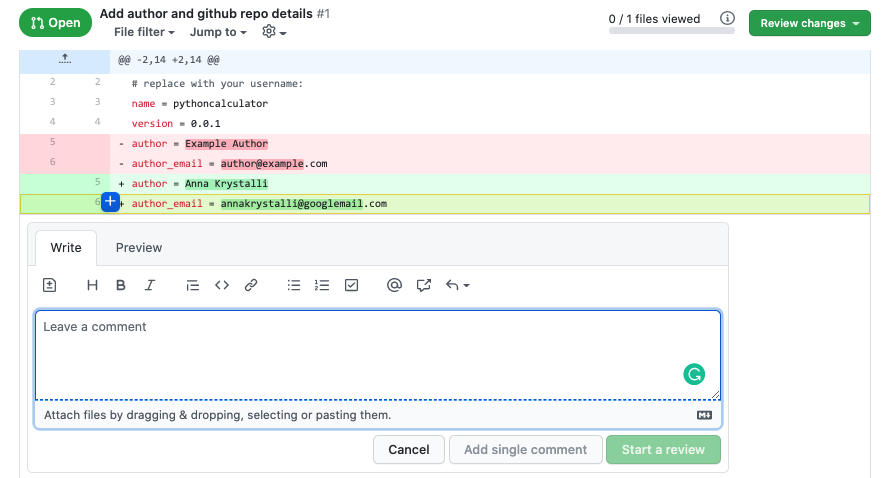
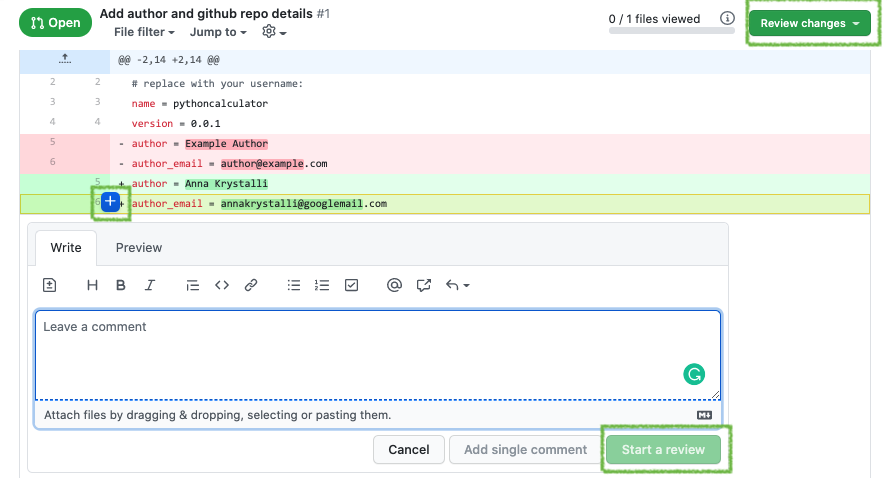
Final updates

Changed region(s): [[0.8219, 0.0, 1.0, 0.1172], [0.6697, 0.8787, 0.8523, 0.9958], [0.0913, 0.3808, 0.1522, 0.4686]]

diff --git a/content/04-collaborative_github_advanced/05-review-2nd-pull-request.md b/content/04-collaborative_github_advanced/05-review-2nd-pull-request.md
@@ -1,5 +1,5 @@
 +++
-title = "Review 2nd Pull Request handling merge conflicts"
+title = "Review 2nd Pull Request: handling merge conflicts"
 date =  2021-05-21T16:16:40+03:00
 weight = 5
 +++
@@ -8,28 +8,84 @@ weight = 5
 ## <i class="fas fa-user-circle"></i> Review 2nd Pull Request
 
 
-Next I'll move onto merging the second pull request. Just like the previous one, I **first inspect the checks and code contributed** and **request modifications** to any errors I've noted **until all checks are passing**. In this example, I'm merging my team mate **robadob**'s contribution who worked on the **
+Next I'll move onto merging the second pull request. Just like the previous one, I **first inspect the checks and code contributed** and **request modifications** to any errors I've noted **until all checks are passing**. 
 
-However, once those have been dealt with, I'm still left with **another blocker to merging the pull request, a merge conflict!**
+### Example: Merge in the `divide` Pull Request.
+
+In this example, I'm merging my team mate **robadob**'s contribution who worked on **adding a division function** ([**issue #4** _Add subtraction function_](https://github.com/annakrystalli/python-calculator-demo/issues/4) via [**pull request #7**](https://github.com/annakrystalli/python-calculator-demo/pull/7).
+
+Rob actually spotted and corrected the sneaky error in  the instructions so the PR passed all checks straight away. However, I'm now left with **another blocker to merging the pull request, a merge conflict!**
 
 > Merge conflicts happen when you **merge branches that have competing commits**, and **Git needs your help to decide which changes to incorporate in the final merge**.
 
-In the case of our second PR, the **conflict arises from the fact that line 2 of the `pythoncalculator/__init__.py` file has been edited**. However, **the first PR**, which has now been merged into `main`, **also committed an edit to that exact line**, .  
+In the case of our second PR, the **conflict arises from the fact that line 2 of the `pythoncalculator/__init__.py` file has been edited**. However, **the first PR**, which has now been merged into `main`, **also committed an edit to that exact line** which **Rob's branch doesn't know about** (the merge of the first PR happened after Rob made his branch off the `main`). This has resulted in a merge conflict that git doesn't know how to deal with and needs our help!
 
+{{% notice info %}}
 Find out more about [Addressing merge conflicts
 ](https://docs.github.com/en/github/collaborating-with-issues-and-pull-requests/addressing-merge-conflicts) and [Resolving a merge conflict on GitHub
-]()
+](https://docs.github.com/en/free-pro-team@latest/github/collaborating-with-issues-and-pull-requests/resolving-a-merge-conflict-on-github).
+
+{{% /notice %}}
+
+#### <i class="fas fa-user-circle"></i> Resolve conflict
+
+**Because the conflict is a simple one, we are able to resolve it on GitHub**. For more complex conflicts you may need to pull the branch down and resolve locally.
+
+Click on {{% button href="" %}} **Resolve conflicts**{{% /button %}} to initiate the process.
 
 {{< figure src="/images/ag-pr-2-review-merge-confilct.png" >}}
 
+This **opens a text editor panel** showing you **any files that have conflicts** (in our case `pythoncalculator/__init__.py`) and highlights the **lines of conflicting code** as well as **their origin**.
+
+
+
 {{< figure src="/images/ag-pr-2-review-merge-confilct-resolve-init.png" >}}
+
+In this text editor, we can **edit the file to tell git what we want to do with the conflicting code**. We want to **keep both `import` statements** so in this case, all we need to do is **delete the lines containing source indicator notation**.
+
+Our **resolved file should similar to the one below** when we're done (they may vary depending on which issues were contributed in each of the first two pull requests).
 
 {{< figure src="/images/ag-pr-2-review-merge-confilct-resolve-cmpl.png" >}}
 
+#### <i class="fas fa-user-circle"></i> Commit resolved conflict
+
+When we're happy with our file we click on {{% button href="" %}} **Mark as resolved**{{% /button %}}
+
 {{< figure src="/images/ag-pr-2-review-merge-confilct-resolve-commit.png" >}}
+
+Finally, to **commit our changes to the 2nd PR branch** (in this case the `divide` branch), we the click {{% button href="" %}} **Commit merge**{{% /button %}} and follow through to completion. 
+
+As noted, **the merge commit will be associated with the person who resolved the conflict** (in this case the project owner).
+
+#### <i class="fas fa-user-circle"></i> Review and merge Pull Request
+
+Now all that's left is to **submit an approving review** and **merge**.
+
+First we **submit the approving pull request review** which is now added PR conversation next to <i class="fas fa-check-circle" style="color:#2AA745"></i>.
+
+Note a couple more things:
+
+- Note the special keyword used in Rob's PR description.
+- Note that the owner's commit resolving the merge conflict is also now present in the conversation. 🎉
 
 {{< figure src="/images/ag-pr-2-review-merge-pre.png" >}}
 
+**Once the approving review has been submitted and all checks are passing, the PR is ready to be merged!** 
+
+Click {{% button href="" %}} **Merge pull request**{{% /button %}} and follow through to completion. Go ahead and also **delete the PR branch** (in this case `divide`) to keep the repo tidy.
+
+
 {{< figure src="/images/ag-pr-2-review-merge.png" >}}
 
+#### <i class="fas fa-user-circle"></i> Close issue
+
+Note that the **special keyword `Closes`** in combination with the issue number (**`#4`**) **automatically closed issue number 4**.
+
+If that wasn't the case for your PR, **go ahead and close the issue manually.**
+
 {{< figure src="/images/ag-pr-2-review-merge-issue-closed.png" >}}
+
+
+#### <i class="fas fa-user-circle"></i> Review remaining Pull Requests
+
+Go ahead and follow the same processes (reviewing and asking for corrections where required and resolving merge conflicts) for any remaining pull requests.

diff --git a/content/04-collaborative_github_advanced/06-synch-local-repo.md b/content/04-collaborative_github_advanced/06-synch-local-repo.md
@@ -1,0 +1,45 @@
++++
+title = "Synch local repository"
+date =  2021-05-22T13:27:33+03:00
+weight = 6
++++
+
+
+
+Now, let's take a minute and go back to GitKraken to inspect what the repo looks like from the ground.
+
+Right at the top of the commit graph you should see <i class="fas fa-cloud"></i> **origin `main` ahead of all other branches** and now containing **all the commits made by the entire team**.
+
+You should **see the  <i class="fas fa-laptop"></i> local branch you used to make your contributions** in below, and likely still checked out (indicated by the <i class="fas fa-check-square" style="color:#166de0; background-color:whites; padding:2px"></i> on the branch label).
+
+Finally, right at the bottom, you should **see your <i class="fas fa-laptop"></i> local `main` branch which is behind all other branches**. 
+
+So let's go ahead and **synch our <i class="fas fa-laptop"></i> local `main` with the  <i class="fas fa-cloud"></i> origin `main`**.
+
+
+{{< figure src="/images/ag-synch-local-view.png" >}}
+
+## <i class="fas fa-user-circle"> </i><i class="fas fa-users"></i> Checkout `main` branch
+
+First we need to **checkout the <i class="fas fa-laptop"></i> local `main` branch**. You can either double click on the branch label or check it out on the left panel by <i class="fas fa-check-square" style="color:#7CFF7E; background-color:black; padding:2px"></i> next to **main**. 
+
+{{< figure src="/images/ag-synch-local-checkout-main.png" >}}
+
+## <i class="fas fa-user-circle"></i> <i class="fas fa-users"></i> Pull remote changes
+
+Then, click on {{% button href="" %}} **Pull** <br> <i class="fas fa-download"></i>{{% /button %}} to pull the remote changes.
+
+This should **synch our <i class="fas fa-laptop"></i> local `main` with the  <i class="fas fa-cloud"></i> origin `main`**.
+
+Finally, to also keep your local repo tidy and clean of any stale branches, let's also delete the local branch we worked in to contribute to the `main` branch. In my case that's the `edit-metadata` branch.
+
+To delete it, **right click on the branch label** and then select **Delete _branch-name_**. You can also delete it through the **left panel by clicking on**  **<i class="fas fa-ellipsis-v"></i>** next to the branch name and then again, **selecting to delete**.
+
+{{< figure src="/images/ag-synch-local-pull.png" >}}
+
+
+**You should now have a nice and clean git graph with the <i class="fas fa-laptop"></i> local and <i class="fas fa-cloud"></i> origin `main` branches synched and up to date!** 🥳 🎉 ✨
+
+
+{{< figure src="/images/ag-synch-local-clean.png" >}}
+

diff --git a/content/04-collaborative_github_advanced/02-team-repo-configure.md b/content/04-collaborative_github_advanced/02-team-repo-configure.md
@@ -1,5 +1,5 @@
 +++
-title = "Make first owner contribution and assign issues"
+title = "Make first owner contribution"
 date =  2021-05-13T17:58:07+03:00
 weight = 2
 +++
@@ -137,21 +137,40 @@ Clicking on that, navigates you to the PR page on GitHub. You can see that the C
 
 ## <i class="fas fa-users"></i> Review Pull Request
 
-Next, the team member the owner requested a review from should perform the review. Other team member's could also do this but to keep things simple let's just let the assigned reviewer do this.
+Next, the **team member the owner requested a review from should perform the review**. Other team member's could also do this but to keep things simple let's just let the assigned reviewer do this.
 
-In the pull request, the reviewer has the opportunity to inspect the changes made in the pull request.
+In the pull request **Files changed** tab, the reviewer has the opportunity to **inspect the changes made in the pull request**.
 
 {{< figure src="/images/ag-cfg-pr-inspect.png" >}}
 
- and submit their review.
-
-They can:
+They can also initiate a review by clicking {{% button href="" %}} **Review changes** {{% /button %}} in which they can:
 - add a comment
 - approve the review
+- explicitly request changes
+
 
 {{< figure src="/images/ag-cfg-pr-rev-gen-init.png" >}}
+
+Alternatively, the can initiate a review by inserting a comment next to a specific line of code.
 
 {{< figure src="/images/ag-cfg-pr-rev-code-init.png" >}}
 
 
 ## <i class="fas fa-user-circle"></i> Merge Pull Request
+
+Once **an approving review has been submitted** (and as long as all checks are passing), the **PR is  free to be merged!**
+
+{{< figure src="/images/ag-cfg-pr-review-cmpl.png" >}}
+
+
+{{< figure src="/images/ag-cfg-pr-merge-init.png" >}}
+
+Follow through until the PR has been merged! 
+
+To **keep the repo tidy**, as the `edit-metadata` branch is now redundant (i.e. I don't expect any further contributions in this branch regarding the particular feature it was created for), I'm going to go ahead and click **Delete branch**. 
+
+{{< figure src="/images/ag-cfg-pr-merge-cmpl.png" >}}
+
+This removes the <i class="fas fa-cloud"></i> origin `branch`. Later we'll also delete <i class="fas fa-laptop"></i> local branch also.
+
+{{< figure src="/images/ag-cfg-pr-merge-clean.png" >}}

diff --git a/content/04-collaborative_github_advanced/04-review-1st-pull-requests.md b/content/04-collaborative_github_advanced/04-review-1st-pull-requests.md
@@ -1,5 +1,5 @@
 +++
-title = "Review 1st Pull Request - asking for corrections"
+title = "Review 1st Pull Request: asking for corrections"
 date =  2021-05-13T17:59:21+03:00
 weight = 4
 +++
@@ -8,7 +8,7 @@ As the owner, it's time to **review the Pull Requests** the rest of your team ma
 
 We've actually **snuck some errors into the instructions** we provided in your team mates issues. The PR review stage provides opportunity for any problems to be identified and dealt with before merging.
 
-Let's use the first pull request made to the repo as an example. In this case, it was made by team mate **bobturneruk**, tackling [**issue #2** _Add subtraction function_](https://github.com/annakrystalli/python-calculator/issues/2) via [**pull request #5**](https://github.com/annakrystalli/python-calculator/pull/5).
+Let's use the first pull request made to the repo as an example. In this case, it was made by team mate **bobturneruk**, tackling [**issue #2** _Add subtraction function_](https://github.com/annakrystalli/python-calculator-demo/issues/2) via [**pull request #5**](https://github.com/annakrystalli/python-calculator-demo/pull/5).
 
 ## <i class="fas fa-user-circle"></i> Review 1st Subtract Pull Request 
 

diff --git a/content/00-intro-to-version-control/04-what-is-gitkraken.en.md b/content/00-intro-to-version-control/04-what-is-gitkraken.en.md
@@ -6,7 +6,11 @@ weight: 4
 
 ## What is GitKraken
 
-**GitKraken** (<https://www.gitkraken.com/>)is a powerful and elegant multiplatform graphical interface for Git developed as an alternative to working with Git from the command line. It can also interact with GitHub or any other online repository. I've chosen it because it makes setting up really easy and is also easy to use so we can focus more on the principles of version control.
+**GitKraken** (<https://www.gitkraken.com/>) is a powerful and elegant multiplatform **graphical interface for Git** developed as an alternative to working with Git from the command line. 
+
+It can also **interact with GitHub** or any other online repository. 
+
+I've chosen it because it makes **setting up really easy** and is also **easy to use** so we can **focus more on the principles of version control**.
 
 There are however many other such clients for working with Git. It's even integrated into text editors or IDEs such as Rstudio and VS Code.
 
